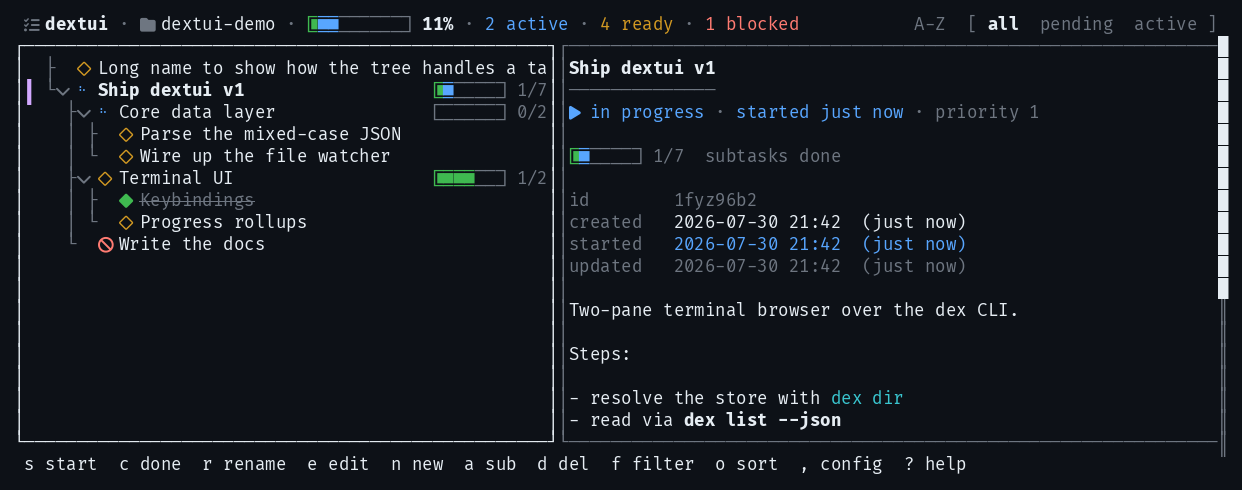
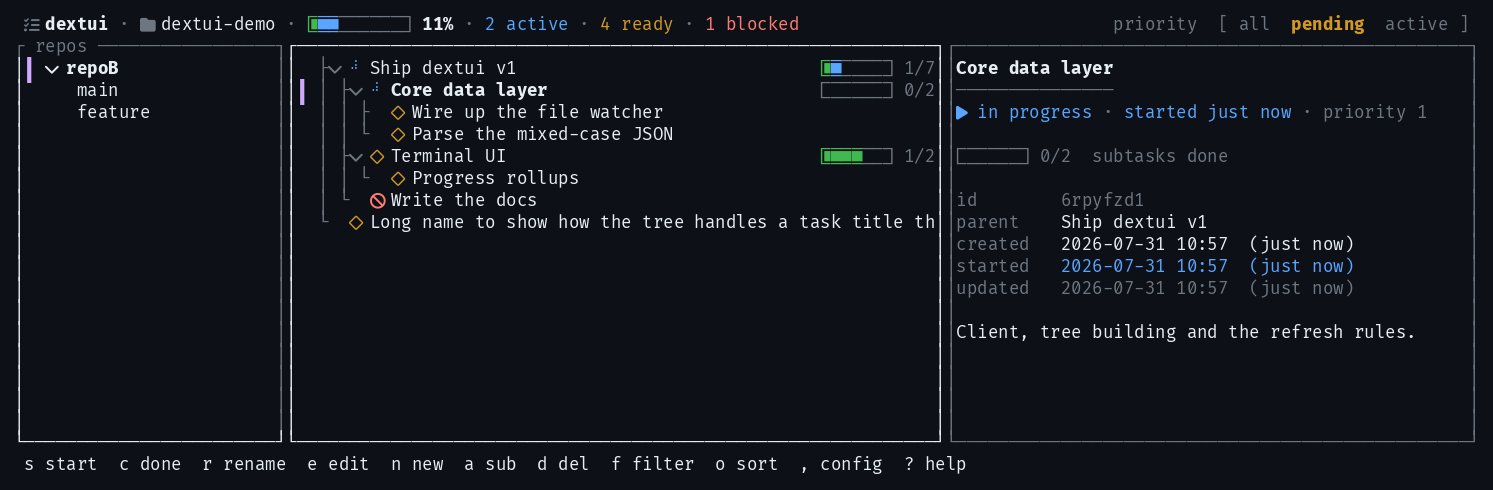
docs: the repo sidebar, and what it changes about scope
CLAUDE.md's Scope section said dextui showed only the current directory's
store; the repo sidebar (Tasks 1-9, 11) is exactly the feature that made
that false. Rewrites Scope in both files, and adds a "Repos, worktrees and
the registry" section to CLAUDE.md covering: why repos.toml is a second,
app-written file rather than a key in the read-only config.toml; Dex::for_store
as the single choke point for --storage-path, and why a wrong store fails
silently; that the plan's staleness gap for unselected worktrees was removed
during implementation, not shipped -- every registered store gets its own
notify watcher and stat-gated safety net; and that repos_pane_above = 0 means
"never as a third pane," not "no sidebar," since focusing it still single-panes
per App::single_pane.

Also corrects a claim the sync log section had left behind: commit 4010c64
instrumented the three dex-list call sites the text still said were dark.

README gets a "Multiple repos" section (keys, config key, why it's watched
continuously) and the same Scope fix. docs/img/dextui-dark.png is
regenerated at COLS=140 with a populated sidebar, so the hero image itself
shows the feature.

diff --git a/CLAUDE.md b/CLAUDE.md
@@ -40,6 +40,9 @@ and to check behaviour where no interactive terminal exists.
 | File | Purpose |
 | --- | --- |
 | `src/dex.rs` | The only module that knows dex exists: model, argv, JSON, status. |
+| `src/worktree.rs` | Parses `git worktree list --porcelain` into `Worktree` rows. |
+| `src/registry.rs` | The writable list of registered repos -- `repos.toml`, kept apart from the read-only config. |
+| `src/repos.rs` | Flattens repos and worktrees into sidebar rows, mirroring `tree::visible_rows`. |
 | `src/icons.rs` | Glyph sets in three tiers (nerd / unicode / ascii). |
 | `src/theme.rs` | Every colour, and nothing else. |
 | `src/tree.rs` | Flat list → hierarchy, search and status filtering, row prefixes. |
@@ -94,6 +97,14 @@ These were all discovered the hard way; do not re-derive them.
   so `tree::build` re-sorts by priority, then creation time, then name.
 - **A `dex` call costs ~180ms** (Node startup). Cheap on a change, unaffordable
   per keystroke — hence no `dex show` call when the selection moves.
+- **`--storage-path` wants the `.dex` directory, not `tasks.jsonl`, and says
+  nothing when you get it wrong.** Pointed at the file, dex finds no tasks and
+  returns an empty list rather than an error — a wrong store looks exactly
+  like an empty project, discovered nowhere near the mistake that caused it.
+  `Dex::for_store` is the *only* place that builds this flag, ahead of every
+  verb's own argv rather than threaded through each call site, so no verb can
+  forget it or misconstruct it; it also rejects a `.jsonl`-suffixed path
+  outright, where the mistake can still be seen.
 
 ## Architecture: reads vs writes
 
@@ -170,14 +181,77 @@ resolves the path into a process-wide `OnceLock` that every later `log::line`
 call reads. Areas are `watch`, `dex`, `store`, `registry` — padded to a fixed
 column so the file reads straight. What lands in each: `watch` gets every
 watcher registration, FS event, and safety tick outcome (including
-`unchanged`, the branch this exists for); `dex` gets each `list` with the
-store, task count and duration — logged in `refresh()`, the function every
-watcher-triggered, Ctrl-R-triggered and post-write reload goes through (the
-one-off `dex list` calls in the startup preflight, a worktree switch, and the
-background worktree-counts fetch are not instrumented -- `refresh()` is where
-a sync fault would actually show up as a pattern); `store` gets worktree
-switches, from and to; `registry` gets every load and save, success or
-failure.
+`unchanged`, the branch this exists for); `dex` gets every `list` call once
+the terminal is up — `refresh()` (the function every watcher-triggered,
+Ctrl-R-triggered and post-write reload goes through), the startup
+worktree-counts join, the background per-worktree watcher thread, and a
+worktree switch's own list all share one `log_list_outcome(store, result,
+elapsed)` helper, logging the store *directory* rather than a display label so
+a background store's chain is greppable end to end by the same string
+`watch`'s `registered`/`event`/`tick` lines already use for it. Only the very
+first `dex list`, in the startup preflight before the terminal is touched,
+stays dark — a failure there is already printed to stderr and the process
+exits before any of this exists to log it. `store` gets worktree switches,
+from and to; `registry` gets every load and save, success or failure.
+
+## Repos, worktrees and the registry
+
+**`~/.config/dextui/repos.toml` is a second file, not a new key in
+`config.toml`.** That file is deliberately read-only to the app — see
+Preferences below — and folding the registry into it would mean either giving
+up that guarantee or teaching `w`/`o`/`O`/`f` to persist too, since there
+would be no longer a principled reason for `a` and `D` to write back while
+those do not. `registry.rs` owns `repos.toml` the way `config.rs` owns the
+other file — same XDG resolution, same "missing is normal, an unreadable file
+is a hard stop rather than a silent empty registry" rule on load — but
+write-side, because unlike every runtime toggle, a registration is meant to
+survive the run that made it.
+
+**Every verb that can target a chosen store goes through `Dex::for_store` /
+`for_store_with`** — see the `--storage-path` bullet above for why a wrong
+store is silent, and why that is what makes this the *only* place the flag
+gets built rather than a parameter threaded through each call site.
+`repos::store_dir` is the one place that knows a worktree's store lives at
+`<worktree path>/.dex`, and it is what every sidebar call site hands to
+`for_store`.
+
+**There is no staleness gap for a worktree you are not looking at.** The
+original plan for this feature accepted one on purpose: poll only the
+selected store right away, and let every other registered store go stale
+until you switched to it, on the theory that watching all of them on a timer
+would multiply the exact idle cost `watch.rs`'s safety net exists to control.
+That trade stopped being necessary once the safety net itself became
+stat-gated instead of firing blindly (see "Architecture: reads vs writes"
+above) — at that point watching ten stores costs the same as watching one, for
+as long as nothing changes in nine of them. `watch::spawn_many` gives every
+registered store its own notify watcher and its own copy of the same
+stat-gated net `watch::spawn` gives the selected one, so a change in a
+worktree nobody is looking at is picked up exactly as promptly as a change in
+the one on screen. `App::worktree_counts`, keyed by store directory, is where
+the result lands — nothing renders it yet; it exists for whichever task draws
+per-repo counts in the sidebar next.
+
+**`repos_pane_above = 0` does not mean "no repo pane" — it means "never as a
+*third* pane."** `src/config.rs`'s own doc comment says only that it "matches
+what `single_pane_below = 0` means for the split," which reads as "the
+sidebar is unreachable" and is not what happens: `App::single_pane` treats
+`Focus::Repos` at a width with no room for a third pane as one more
+single-pane condition, alongside zoom and the width threshold, so `3` still
+gets you the sidebar full-width even with the rung disabled — see
+`repos_focus_becomes_a_single_pane_when_the_ladder_has_no_room_for_it`.
+
+`D`'s confirmation dialog reuses `Mode::Confirm` rather than adding a second
+one: its `id` field carries a `repo:`-prefixed path instead of a task id, and
+since a real dex id is a short slug with no colon in it the two can never
+collide. Cheaper than a second dialog, and the one thing to keep in mind if
+`Mode::Confirm` ever grows a third caller — the prefix trick stops being safe
+the moment something else's id could contain a colon too.
+
+One residual worth knowing about: `repos::Row`/`repos::rows` already support a
+closed repo hiding its worktrees (`Repo::open`), the same way the task tree
+collapses a node, but nothing currently sets `open` to anything but `true` —
+every registered repo shows every worktree, always. There is no key bound to
+toggle it yet.
 
 ## The invariant: refresh must never disturb the user
 
@@ -196,6 +270,16 @@ selection, collapse an expanded node, or interrupt typing.
   has been shipped as a bug once already.
 - While a dialog is open, refreshes set `pending_refresh` and are applied on
   close. Never let one land mid-dialog.
+- **A worktree switch is deliberately not a refresh.** Everything above is
+  `apply_tasks` reconciling a new task list against the *same* store's ids.
+  Switching stores loads an entirely different store's ids, so `App::load_store`
+  follows `App::new`'s first-load rule instead — expand everything, do not try
+  to resolve `self.selected` against ids that belong to nowhere — rather than
+  reusing `apply_tasks` and letting `next_ids.contains(&sel)` succeed by
+  coincidence on another store's slug. `task_memory`, keyed by worktree path,
+  is what makes this feel like it kept your place anyway: `select_worktree`
+  restores whatever was selected the last time you were in that worktree,
+  immediately before `load_store` runs and would otherwise reset it.
 
 ## Display conventions
 
@@ -543,6 +627,12 @@ brighter border. `j/k/h/l`, `g/G` and page keys drive whichever has focus, while
 the action keys (`s c e n a d f / r ?`) stay global because they always operate
 on the selected task.
 
+The repo sidebar is a third pane, reached only by `3` — `Tab` deliberately
+never lands on it or leaves it. `App::toggle_focus` only ever alternates tree
+and detail, so pressing `Tab` from the sidebar always returns to the tree
+rather than bouncing between two panes it was never documented to cross. See
+"Repos, worktrees and the registry" below for its own key model.
+
 **`w` toggles wrapping, and that is not cosmetic.** Wrapping and horizontal
 scrolling are mutually exclusive in ratatui: `Paragraph::scroll((y, x))` honours
 the x offset only when wrapping is off, because wrapping removes the overflow
@@ -859,7 +949,13 @@ looking at colour work. Needs Pillow on whichever `python3` is first on `PATH`.
 
 ## Scope
 
-In: browse, search, filter, start, complete, edit, create, subtask, delete.
-Out (run these from the shell): `sync`, `import`, `export`, `plan`,
-`archive`, and multi-project views. dextui shows the current directory's store
-only.
+In: browse, search, filter, start, complete, edit, create, subtask, delete —
+across every worktree of every repo you register, not just the one dextui
+started in. This file used to end with "dextui shows the current directory's
+store only"; the repo sidebar is exactly the feature that made that false, and
+removing the sentence is the point of this section.
+
+Out (run these from the shell): `sync`, `import`, `export`, `plan`, `archive`.
+Registering a repo only teaches the sidebar about it — nothing about sync
+configuration, importing or the rest becomes a dextui concern just because
+there is now more than one store on screen.

diff --git a/README.md b/README.md
@@ -1,9 +1,10 @@
 # dextui
 
-A two-pane terminal UI for browsing and triaging [dex](https://dex.rip/) tasks —
-task tree on the left, full detail on the right.
+A terminal UI for browsing and triaging [dex](https://dex.rip/) tasks —
+task tree on the left, full detail on the right, and — wide enough, or once
+you have registered more than one — a sidebar of every repo and its worktrees.
 
-![dextui showing a task tree with progress meters, a selected row and a detail pane](docs/img/dextui-dark.png)
+![dextui showing a task tree with progress meters, a selected row, a detail pane and the repo sidebar](docs/img/dextui-dark.png)
 
 <sub>Nerd Font glyphs; the default set works in any terminal. Regenerate with
 `scripts/screenshot.sh`.</sub>
@@ -61,6 +62,9 @@ cd ~/your/project && dextui
 **dextui reads the store for the current directory**, so run it from the project
 whose tasks you want. If the tasks look wrong, `dex dir` tells you which store is
 actually in use — outside a git repo, dex falls back to a shared global one.
+That is just where it starts, though — register other repos from inside the
+app and switch between them without restarting; see
+[Multiple repos](#multiple-repos) below.
 
 ## Reading the display
 
@@ -124,6 +128,33 @@ The tabs are clickable, and the header sheds the same way the wide one does —
 but the tabs are reserved before any of that, so the way back is never the thing
 that disappears.
 
+## Multiple repos
+
+dextui can watch more than one repo at once — other projects, or other
+worktrees of the one you are in. Press `3` to focus the sidebar, `a` to
+register the repo dextui is currently running in (not necessarily whichever
+row the cursor is on), and `enter` or `l` on any worktree to switch the tree
+and detail panes to its store. `D` unregisters an entry, with confirmation —
+that only removes the sidebar row; nothing on disk, in the worktree, or in
+the store itself is touched.
+
+Wide enough — `repos_pane_above` columns, 110 by default — and the sidebar
+gets a third pane alongside the tree and detail. Narrower than that, `3`
+still gets you there: focusing it zooms the app down to just the sidebar, the
+same way the whole app zooms below `single_pane_below`.
+
+Every registered repo is watched continuously, not only the one on screen —
+switching to a worktree you have not looked at in a while shows it already
+caught up, with nothing to wait for.
+
+| key | does |
+| --- | --- |
+| `3` | focus the repo sidebar |
+| `j` `k` `g` `G` | move the cursor |
+| `enter`, `l` | switch to the worktree under the cursor |
+| `a` | register the repo dextui is running in |
+| `D` | unregister the entry under the cursor, with confirmation |
+
 ## Keys
 
 Press `?` in the app for this list at any time.
@@ -135,7 +166,7 @@ Press `?` in the app for this list at any time.
 | `g` `G` | first / last |
 | `tab` | switch pane (the focused one has the brighter border) |
 | `enter` | open the detail pane |
-| `1` `2` | jump straight to the tree / the detail |
+| `1` `2` `3` | jump straight to the tree / the detail / the repo sidebar |
 | `z` | zoom — one pane at a time |
 | `-` `+` | collapse / expand all |
 | `/` | search names and descriptions |
@@ -158,6 +189,9 @@ Acting on the selected task:
 | `n` | new top-level task |
 | `a` | new subtask of the selection |
 | `d` | delete, with confirmation |
+
+`a` means something different with the repo sidebar focused — see
+[Multiple repos](#multiple-repos).
 
 
 
@@ -222,6 +256,7 @@ wrap = true
 icons = "unicode"       # nerd | unicode | ascii
 animate = true          # spin the in-progress marker
 single_pane_below = 80  # below this width, one pane at a time (0 = always split)
+repos_pane_above = 110  # at/above this, the sidebar gets a pane of its own (0 = never)
 ```
 
 A project file need only mention what it changes:
@@ -233,6 +268,12 @@ wrap = false
 
 Both files are **read-only** to the app — `w`, `o`, `O` and `f` change only the
 current run, so nothing you toggle is written back over a file you hand-edited.
+
+Registered repos live in their own file, `~/.config/dextui/repos.toml` — not a
+third config layer, and not read-only like the two above. `a` and `D` write it
+directly, which is exactly why it is kept separate: folding it into
+`config.toml` would mean either giving up that file's read-only guarantee or
+starting to persist every other toggle too.
 
 Set `animate = false` if you would rather nothing moved. dextui only redraws when
 something changes, so with it off the app costs nothing at all while you are not
@@ -293,10 +334,12 @@ rotated) if it grows past 1&nbsp;MB, so history is limited to the current run.
 
 ## Scope
 
-In: browse, search, filter, start, complete, edit, create, subtask, delete.
+In: browse, search, filter, start, complete, edit, create, subtask, delete —
+across every repo and worktree you register, not just the one you started
+dextui in.
 
-Out, because the CLI already does them well: `sync`, `import`, `export`, `plan`,
-`archive`, and multi-project views. dextui shows the current directory's store.
+Out, because the CLI already does them well: `sync`, `import`, `export`,
+`plan`, `archive`.
 
 ## Development
 
